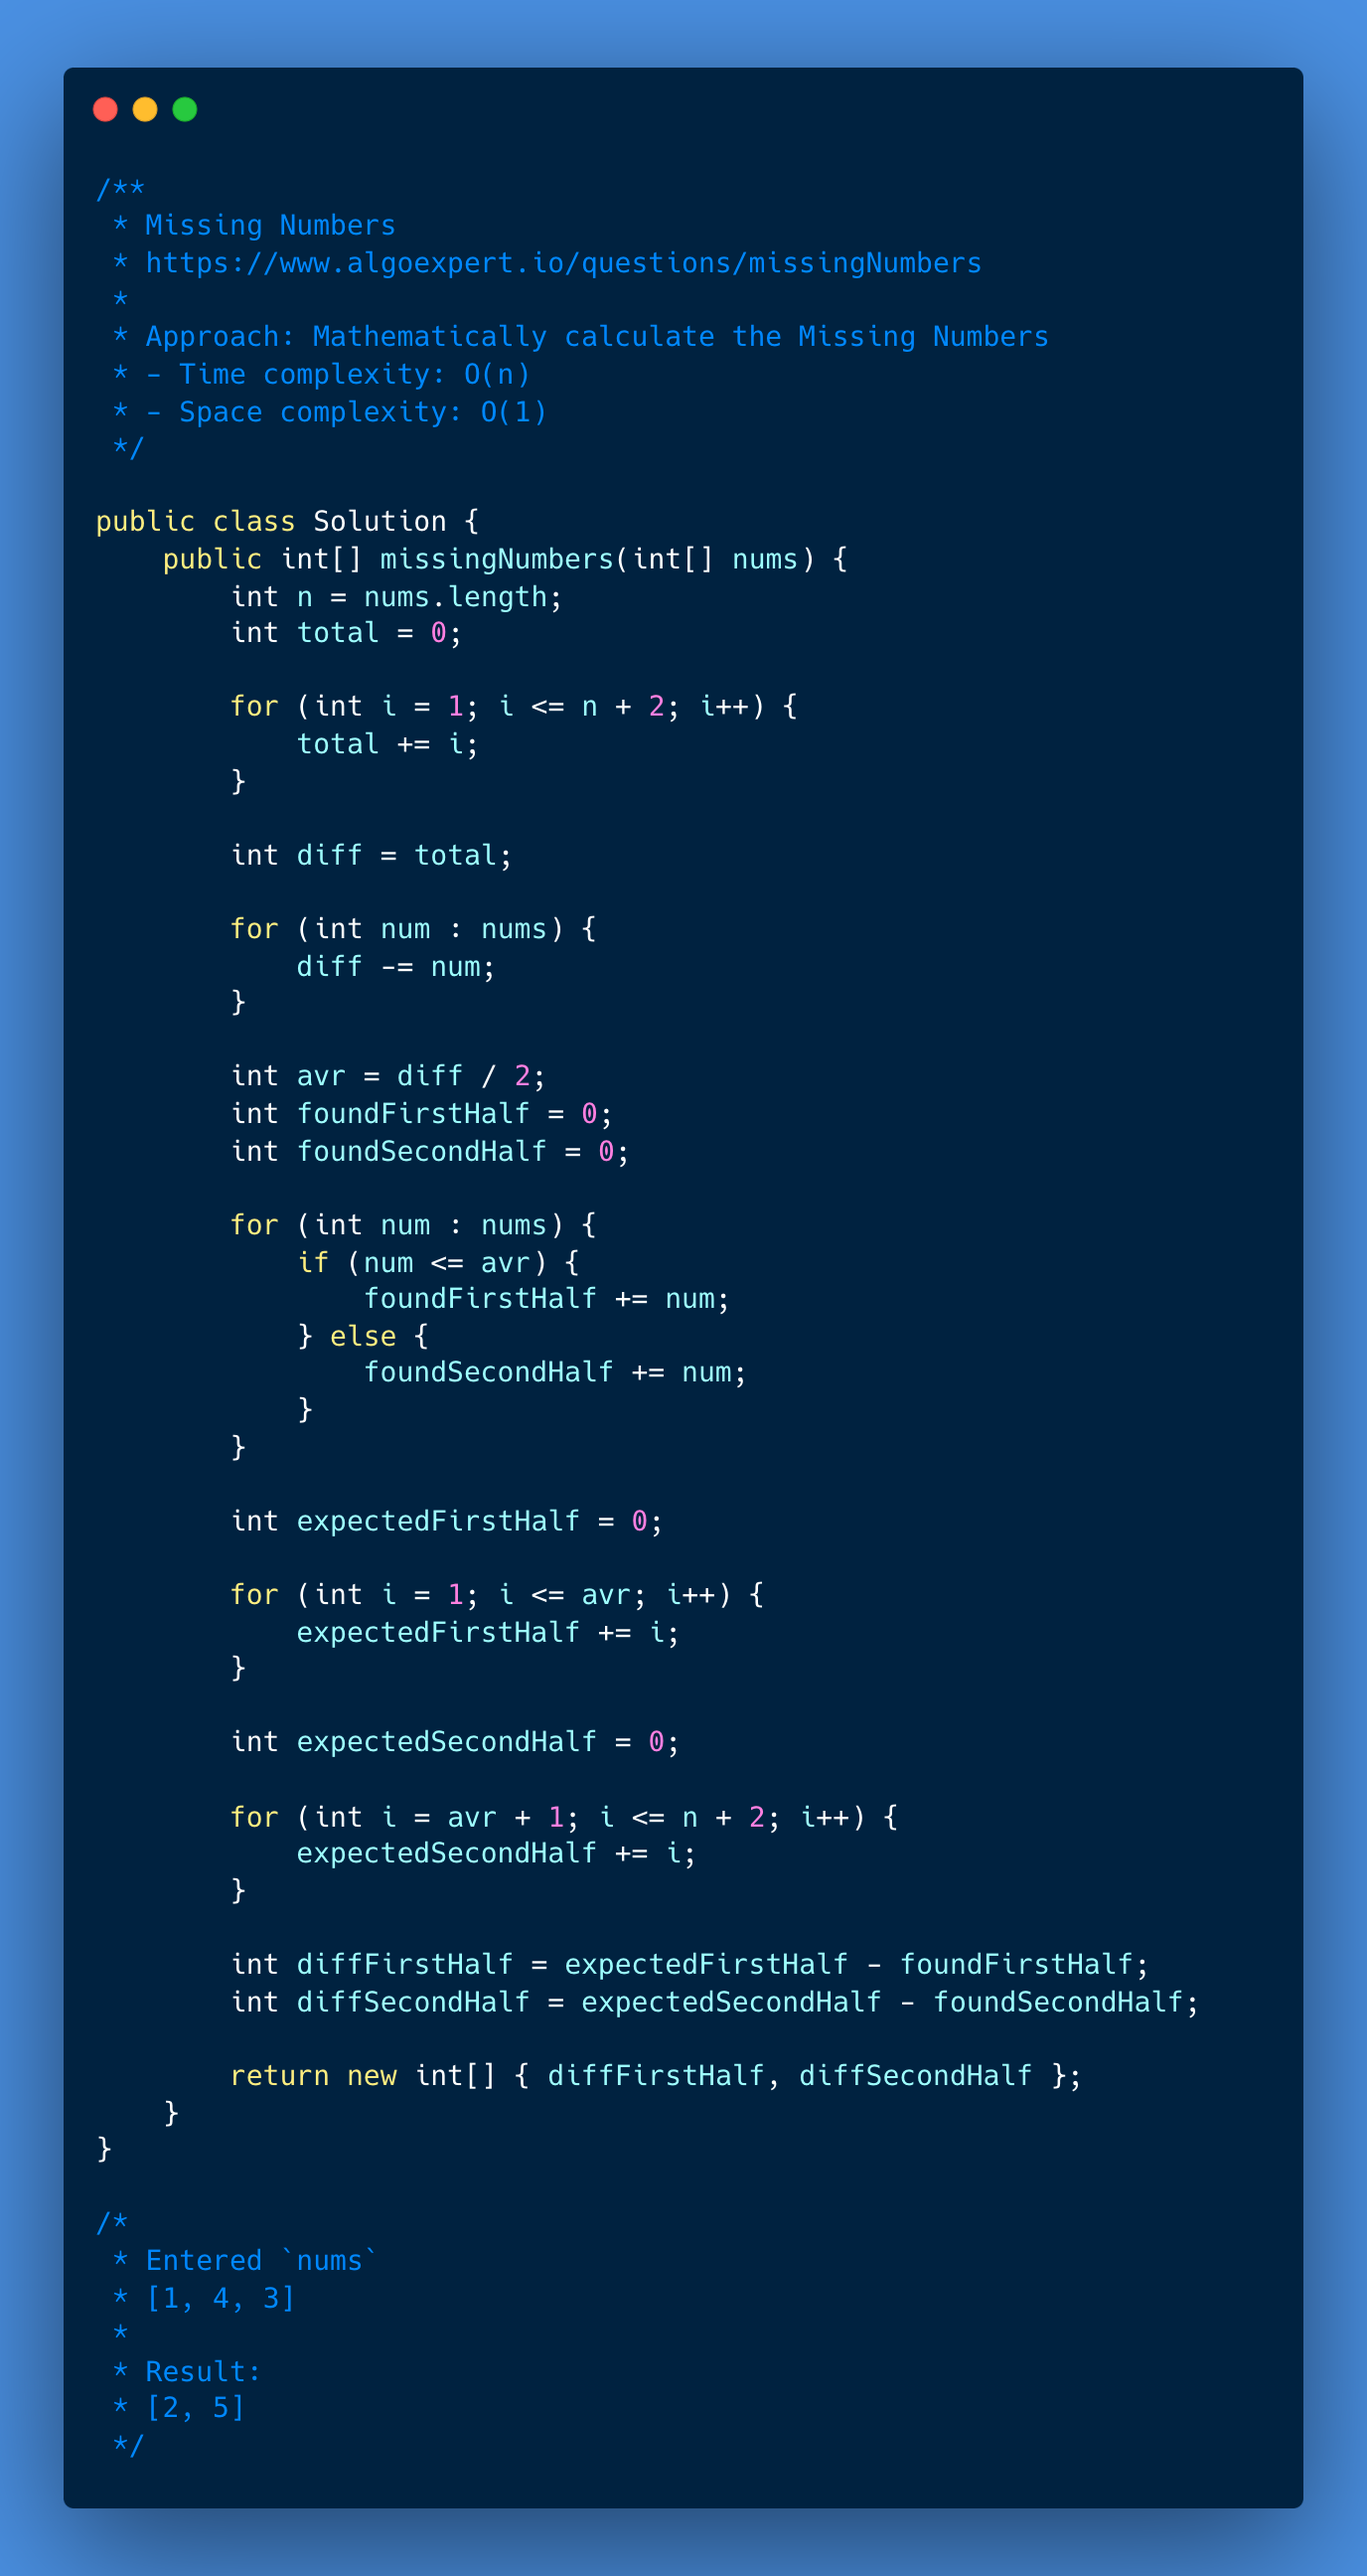
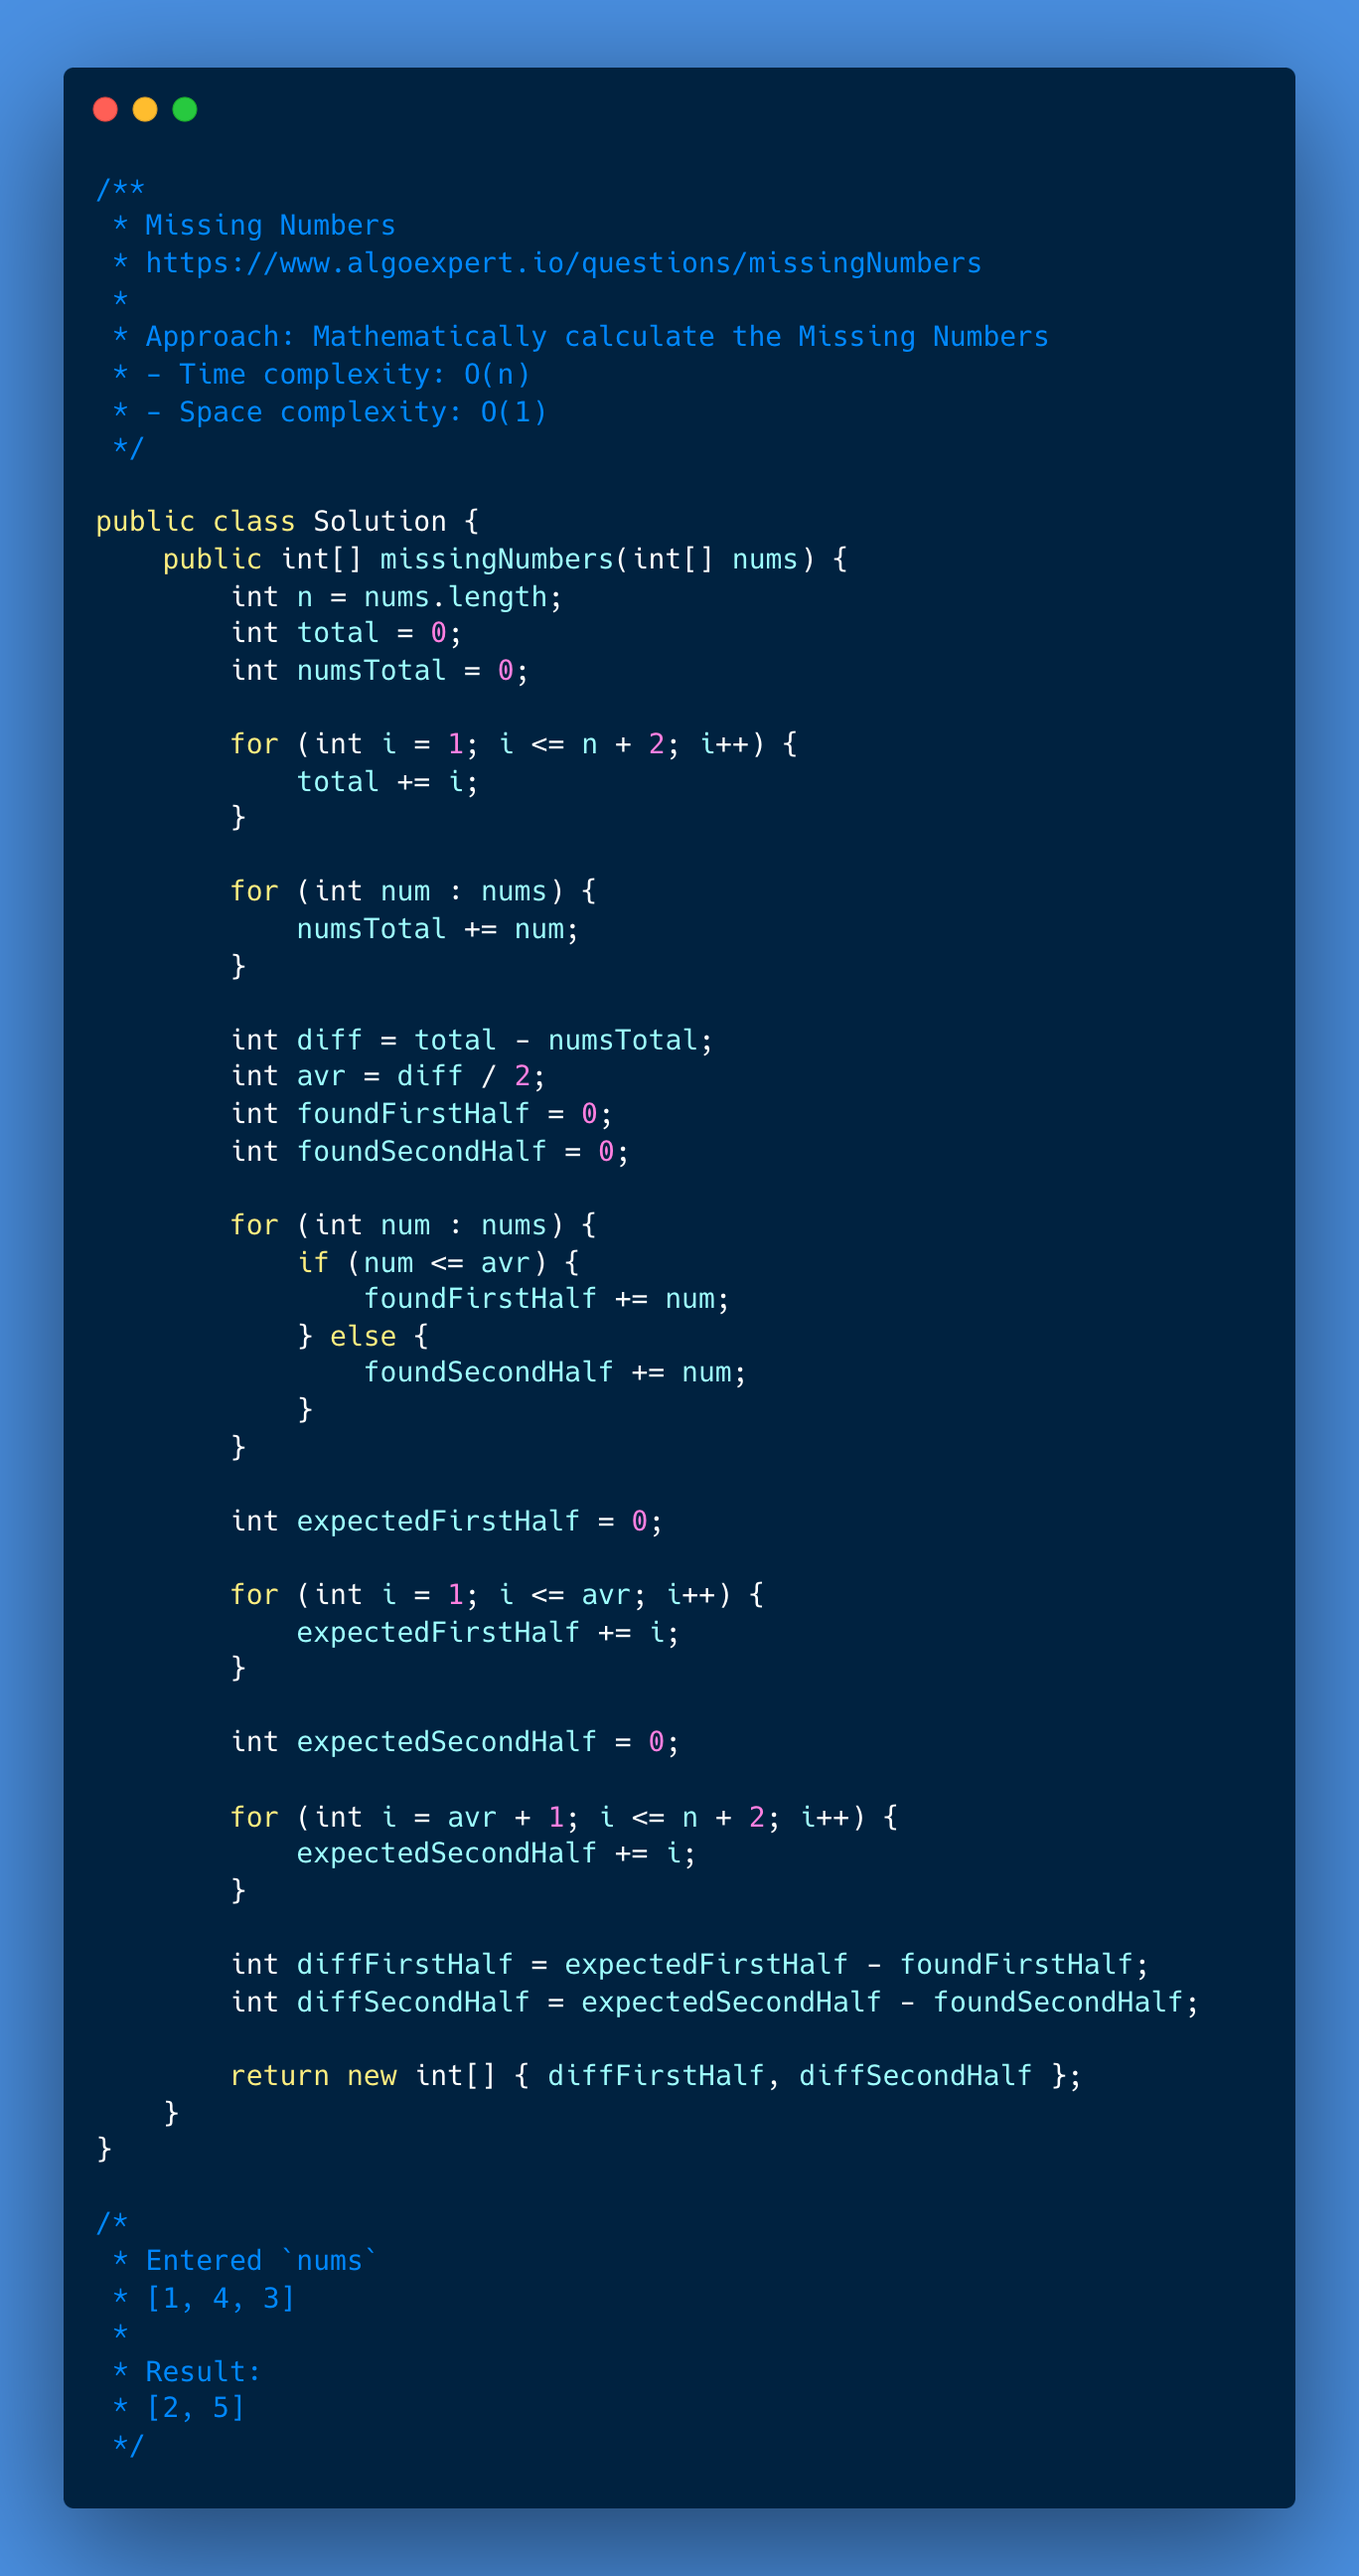
Solve Problem: Missing Numbers

diff --git a/134-missing-numbers/002-solution/Solution.java b/134-missing-numbers/002-solution/Solution.java
@@ -11,17 +11,17 @@ public class Solution {
     public int[] missingNumbers(int[] nums) {
         int n = nums.length;
         int total = 0;
+        int numsTotal = 0;
 
         for (int i = 1; i <= n + 2; i++) {
             total += i;
         }
 
-        int diff = total;
-
         for (int num : nums) {
-            diff -= num;
+            numsTotal += num;
         }
 
+        int diff = total - numsTotal;
         int avr = diff / 2;
         int foundFirstHalf = 0;
         int foundSecondHalf = 0;
